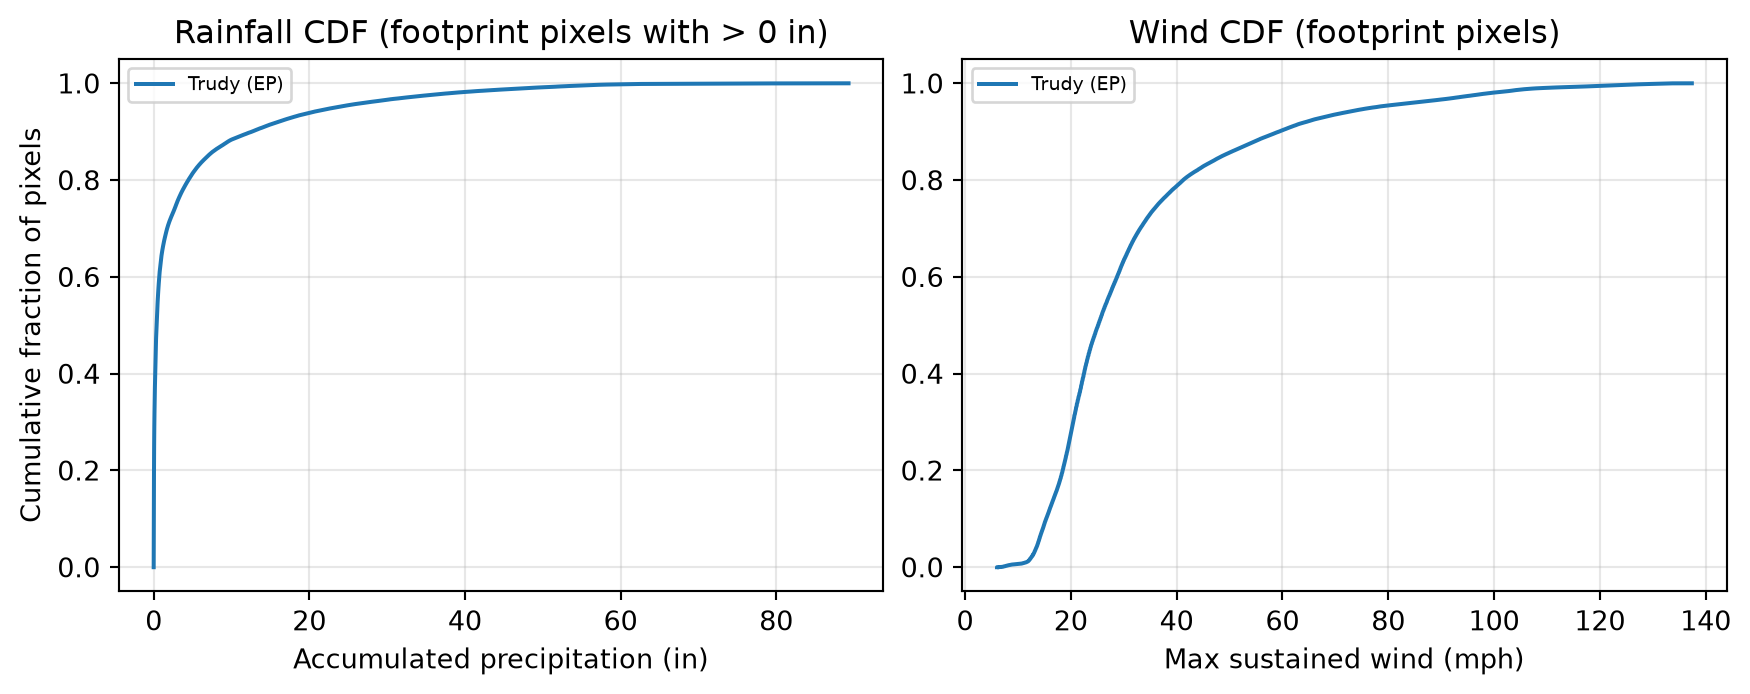
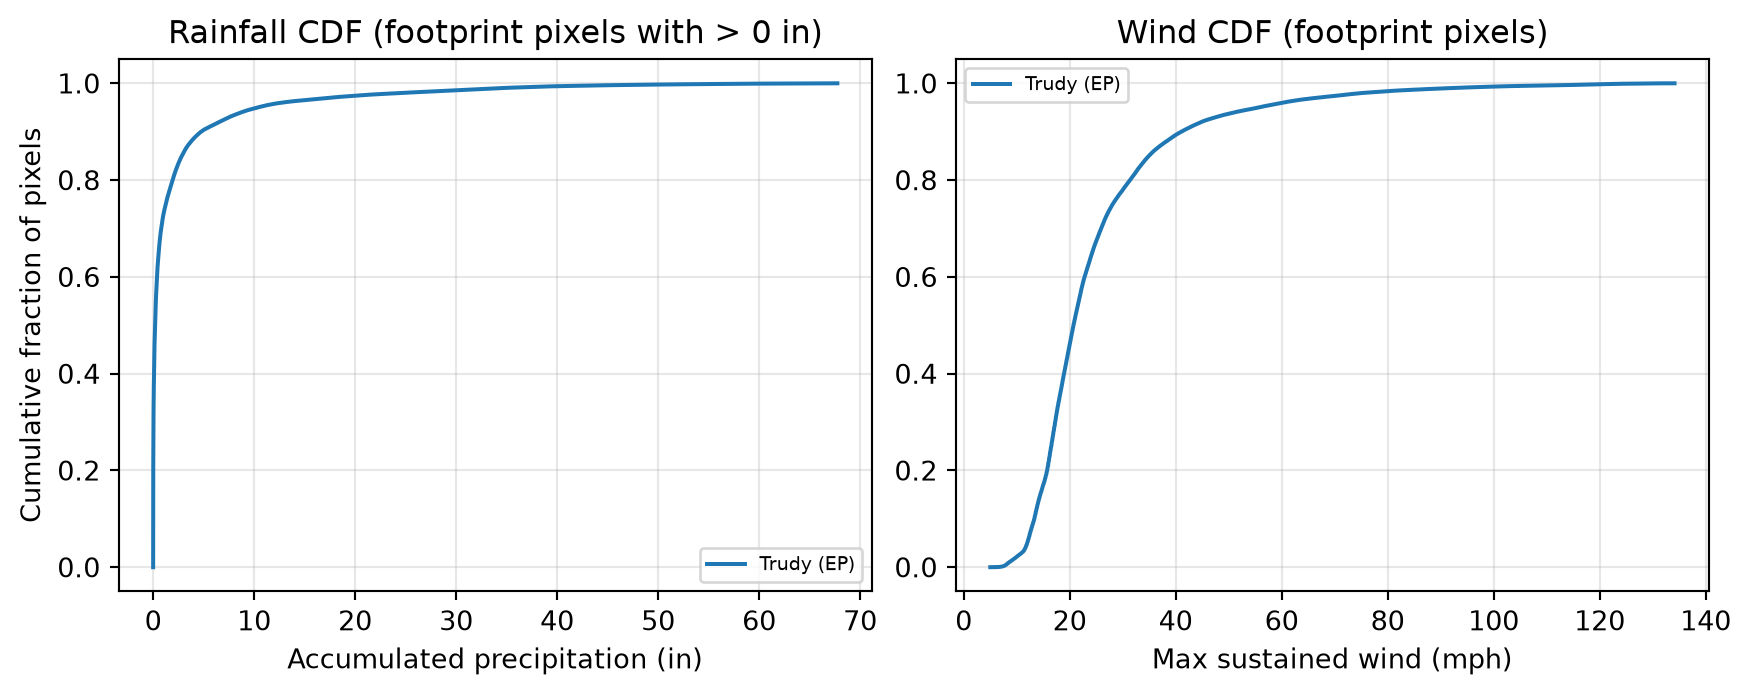
Automated render (2026-10-18T14:58Z)

diff --git a/docs/posts/2026-09-09-ep-storm-precip-wind/index.html b/docs/posts/2026-09-09-ep-storm-precip-wind/index.html
@@ -463,7 +463,7 @@ Important
 <span id="cb2-15"><a href="#cb2-15" aria-hidden="true" tabindex="-1"></a>    <span class="bu">print</span>(<span class="st">"No active storms in AL/EP/CP right now — nothing to plot today."</span>)</span></code></pre></div><button title="Copy to Clipboard" class="code-copy-button"><i class="bi"></i></button></div>
 </details>
 <div class="cell-output cell-output-stdout">
-<pre><code>Found: Trudy (EP) — advisory 016a</code></pre>
+<pre><code>Found: Trudy (EP) — advisory 021</code></pre>
 </div>
 </div>
 </section>
@@ -613,9 +613,9 @@ Important
 <tr class="odd">
 <th data-quarto-table-cell-role="th">0</th>
 <td>Trudy (EP)</td>
-<td>2026-10-17 06Z</td>
-<td>8</td>
-<td>96</td>
+<td>2026-10-18 06Z</td>
+<td>7</td>
+<td>72</td>
 <td>Hurricane (Cat 1-2)</td>
 </tr>
 </tbody>
@@ -803,14 +803,13 @@ Important
 <span id="cb5-171"><a href="#cb5-171" aria-hidden="true" tabindex="-1"></a>composite_summary</span></code></pre></div><button title="Copy to Clipboard" class="code-copy-button"><i class="bi"></i></button></div>
 </details>
 <div class="cell-output cell-output-stdout">
-<pre><code>&lt;!-- ep212026 window 0h-12h (fxx 6-18): precip range [0.00,775.30] mm, wind range [0.56,53.12] m/s --&gt;
-&lt;!-- ep212026 window 12h-24h (fxx 18-30): precip range [0.00,1143.97] mm, wind range [0.56,54.04] m/s --&gt;
-&lt;!-- ep212026 window 24h-36h (fxx 30-42): precip range [0.00,1310.26] mm, wind range [0.67,54.04] m/s --&gt;
-&lt;!-- ep212026 window 36h-48h (fxx 42-54): precip range [0.00,1486.79] mm, wind range [1.60,47.06] m/s --&gt;
-&lt;!-- ep212026 window 48h-60h (fxx 54-66): precip range [0.00,1261.41] mm, wind range [1.49,26.71] m/s --&gt;
-&lt;!-- ep212026 window 60h-72h (fxx 66-78): precip range [0.00,1157.56] mm, wind range [1.93,21.66] m/s --&gt;
-&lt;!-- ep212026 window 72h-96h (fxx 78-102): precip range [0.00,1566.24] mm, wind range [1.38,19.38] m/s --&gt;
-&lt;!-- ep212026 FINAL: precip total range [0.00,2268.15] mm (0.00 to 89.30 in) --&gt;</code></pre>
+<pre><code>&lt;!-- ep212026 window 0h-12h (fxx 9-21): precip range [0.00,1001.87] mm, wind range [0.71,52.76] m/s --&gt;
+&lt;!-- ep212026 window 12h-24h (fxx 21-33): precip range [0.00,1343.34] mm, wind range [0.72,45.64] m/s --&gt;
+&lt;!-- ep212026 window 24h-36h (fxx 33-45): precip range [0.00,1318.00] mm, wind range [1.04,34.73] m/s --&gt;
+&lt;!-- ep212026 window 36h-48h (fxx 45-57): precip range [0.00,1598.59] mm, wind range [1.08,25.42] m/s --&gt;
+&lt;!-- ep212026 window 48h-60h (fxx 57-69): precip range [0.00,1014.54] mm, wind range [1.10,22.04] m/s --&gt;
+&lt;!-- ep212026 window 60h-72h (fxx 69-81): precip range [0.00,1694.74] mm, wind range [1.62,22.04] m/s --&gt;
+&lt;!-- ep212026 FINAL: precip total range [0.00,1720.69] mm (0.00 to 67.74 in) --&gt;</code></pre>
 </div>
 <div id="composite-fields" class="cell-output cell-output-display" data-execution_count="4">
 <div>
@@ -832,11 +831,11 @@ Important
 <tr class="odd">
 <th data-quarto-table-cell-role="th">0</th>
 <td>Trudy (EP)</td>
-<td>7</td>
+<td>6</td>
 <td>0</td>
-<td>2268.2</td>
-<td>101.7</td>
-<td>54.0</td>
+<td>1720.7</td>
+<td>53.3</td>
+<td>52.8</td>
 </tr>
 </tbody>
 </table>
@@ -1082,7 +1081,7 @@ Important
 <label for="storm-select"><strong>Select a storm:</strong></label> <select id="storm-select" onchange="showStormPanel(this.value)"> <option value="storm-ep212026" selected="">Trudy (EP)</option> </select>
 </div>
 <div id="storm-ep212026" class="storm-panel" style="display:block;">
-<img src="storm_images/ep212026.png?v=1792247442" style="max-width:100%;">
+<img src="storm_images/ep212026.png?v=1792335445" style="max-width:100%;">
 </div>
 <script>
 function showStormPanel(id) {
